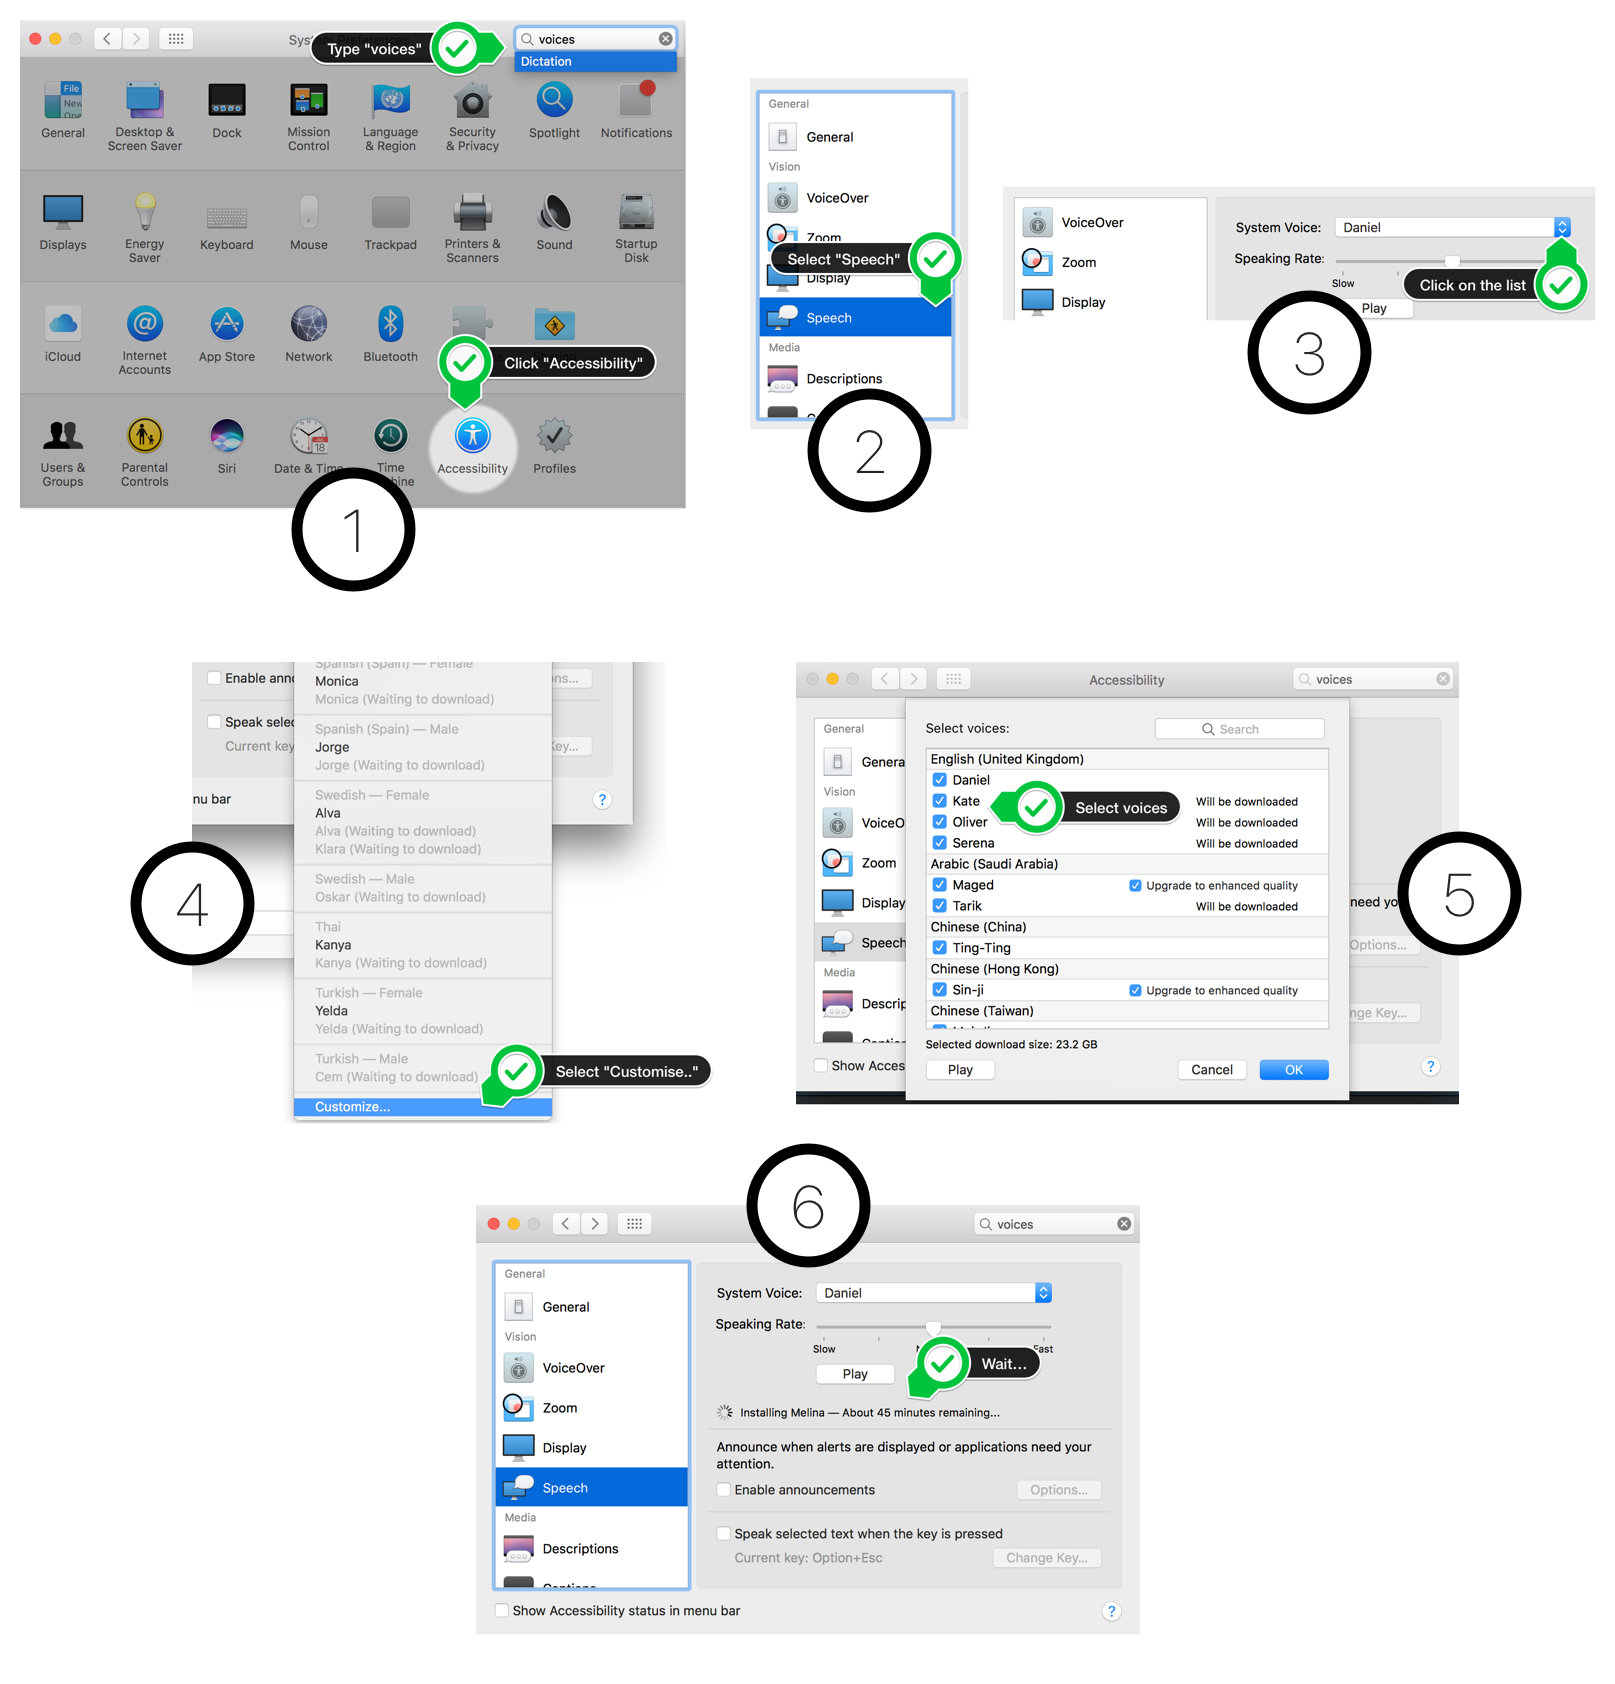
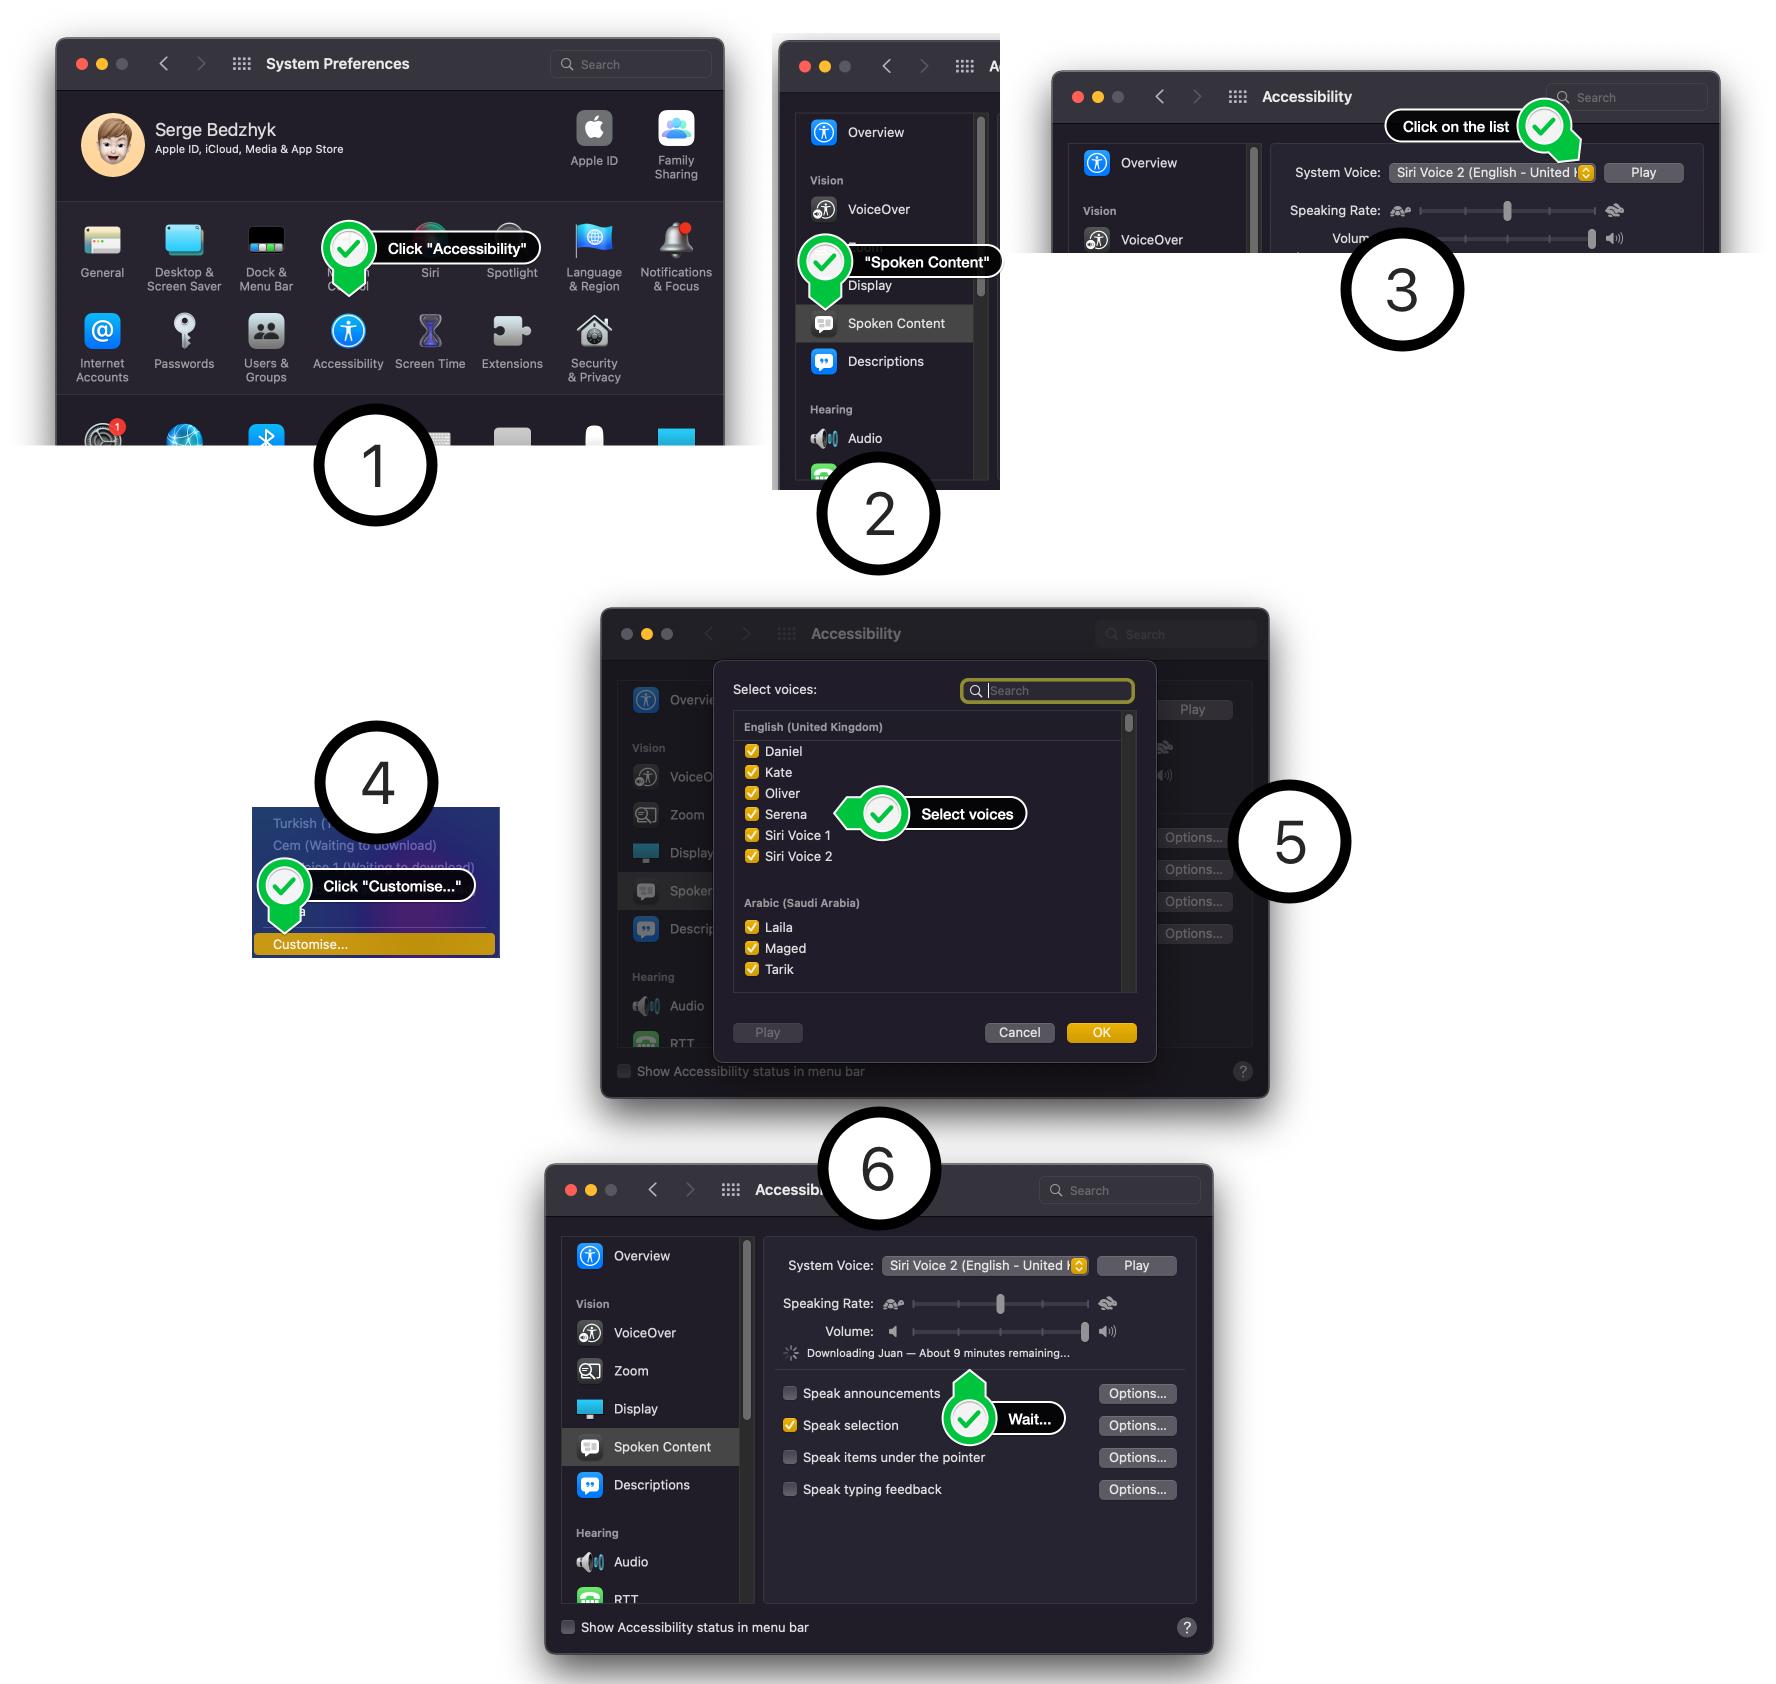
chore: bump the version 0.2.1 → 0.2.2 chore: add new voices neel and rishi chore: update all the dependencies refactor: all the tests to fix minitest deprecation warnings doc: update the copyright year 2017 → 2022 doc: update the manual image doc: add Caveats section doc: update "Installing & Updati

diff --git a/test/test_mac-say.rb b/test/test_mac-say.rb
@@ -10,19 +10,19 @@ describe 'Mac::Say as a macOS `say` wrapper' do
     end
 
     it 'must have a VERSION constant' do
-      Mac::Say.const_get('VERSION').wont_be_empty
+      _(Mac::Say.const_get('VERSION')).wont_be_empty
     end
 
     it 'must return available voices as an Array of Hashes' do
-      Mac::Say.voices.wont_be_empty
-      Mac::Say.voices.must_be_kind_of Array
+      _(Mac::Say.voices).wont_be_empty
+      _(Mac::Say.voices).must_be_kind_of Array
     end
 
     it 'must return specific Hash structure for a voice' do
       voice = Mac::Say.voice(:name, :alex)
-      voice.wont_be_empty
-      voice.must_be_kind_of Hash
-      voice.keys.must_equal Mac::Say::VOICE_ATTRIBUTES
+      _(voice).wont_be_empty
+      _(voice).must_be_kind_of Hash
+      _(voice.keys).must_equal Mac::Say::VOICE_ATTRIBUTES
     end
 
     it 'must return additional attributes for known voices' do
@@ -30,52 +30,52 @@ describe 'Mac::Say as a macOS `say` wrapper' do
       voice = Mac::Say.voice(:name, voice_name)
       additional_voice_attributes = ADDITIONAL_VOICE_ATTRIBUTES[voice_name]
 
-      voice[:gender].must_equal additional_voice_attributes[:gender]
-      voice[:joke].must_equal additional_voice_attributes[:joke]
-      voice[:quality].must_equal additional_voice_attributes[:quality]
+      _(voice[:gender]).must_equal additional_voice_attributes[:gender]
+      _(voice[:joke]).must_equal additional_voice_attributes[:joke]
+      _(voice[:quality]).must_equal additional_voice_attributes[:quality]
     end
 
     it '.voice must search for a voice using single attribute' do
       voice = Mac::Say.voice(:name, :alex)
-      voice[:name].must_equal :alex
+      _(voice[:name]).must_equal :alex
     end
 
     it '.voice must search for a voice using block given' do
       voices = Mac::Say.voice {|voice| voice[:language] == :en && voice[:joke] == false }
-      voices.must_be_kind_of Array
+      _(voices).must_be_kind_of Array
     end
 
     it '.voice must return one voice as a Hash' do
       voice = Mac::Say.voice(:name, :alex)
-      voice.must_be_kind_of Hash
+      _(voice).must_be_kind_of Hash
     end
 
     # For this test to pass you'd have to have more than
     # one British voice on your machine!
     it '.voice must return an Array of voices if > 1' do
       voices = Mac::Say.voice(:country, :gb)
-      voices.must_be_kind_of Array
+      _(voices).must_be_kind_of Array
     end
 
     it ".voice must return nil if voice wasn't found" do
       voices = Mac::Say.voice(:name, :xxx)
-      voices.must_be_nil
+      _(voices).must_be_nil
     end
 
 
     it '.say must return 0 in successive speech' do
       expectation = ["#{@say_path} -v 'alex' -r 175", 0]
-      Mac::Say.say('42').must_equal expectation
+      _(Mac::Say.say('42')).must_equal expectation
     end
 
     it '.say must use custom voice' do
       expectation = ["#{@say_path} -v 'alex' -r 175", 0]
-      Mac::Say.say('42', :alex).must_equal expectation
+      _(Mac::Say.say('42', :alex)).must_equal expectation
     end
 
     it '.say must work with multiple lines' do
       expectation = ["#{@say_path} -v 'alex' -r 175", 0]
-      Mac::Say.say(<<-TEXT, :alex).must_equal expectation
+      _(Mac::Say.say(<<-TEXT, :alex)).must_equal expectation
         1
         2
         3
@@ -83,13 +83,13 @@ describe 'Mac::Say as a macOS `say` wrapper' do
     end
 
     it '.say must fail on wrong voice' do
-      -> {
+      _{
         Mac::Say.say 'OMG! I lost my voice!', :wrong
       }.must_raise Mac::Say::VoiceNotFound
     end
 
     it '.voice must fail on wrong voice attribute' do
-      -> {
+      _{
         Mac::Say.voice(:tone, :enthusiastic)
       }.must_raise Mac::Say::UnknownVoiceAttribute
     end
@@ -102,24 +102,24 @@ describe 'Mac::Say as a macOS `say` wrapper' do
     end
 
     it 'must instantiate Mac::Say' do
-      @reader.must_be_instance_of Mac::Say
+      _(@reader).must_be_instance_of Mac::Say
     end
 
     it '#say must return 0 on successive speech' do
       expectation = ["#{@say_path} -v 'alex' -r 175", 0]
-      @reader.say(string: '42').must_equal expectation
+      _(@reader.say(string: '42')).must_equal expectation
     end
 
     it '#read must be a synonym of #say' do
       expectation = ["#{@say_path} -v 'alex' -r 175", 0]
-      @reader.read(string: '42').must_equal expectation
+      _(@reader.read(string: '42')).must_equal expectation
     end
 
     it '#say must support :file' do
       absolute_path = File.absolute_path './fixtures/text/en_gb_test.txt', File.dirname(__FILE__)
       expectation = ["#{@say_path} -f #{absolute_path} -v 'alex' -r 175", 0]
 
-      @reader.say(file: absolute_path).must_equal expectation
+      _(@reader.say(file: absolute_path)).must_equal expectation
     end
 
     it '#say must read :file from initial config' do
@@ -127,17 +127,16 @@ describe 'Mac::Say as a macOS `say` wrapper' do
       expectation = ["#{@say_path} -f #{absolute_path} -v 'alex' -r 175", 0]
 
       @reader = Mac::Say.new(file: absolute_path)
-      @reader.say.must_equal expectation
+      _(@reader.say).must_equal expectation
     end
 
     it 'must return nil additional attrs for unknown voices' do
       if ENV['USE_FAKE_SAY']
         voice = @reader.voice(:name, :test)
-        additional_voice_attributes = ADDITIONAL_VOICE_ATTRIBUTES[:test]
 
-        voice[:gender].must_be_nil
-        voice[:joke].must_be_nil
-        voice[:quality].must_be_nil
+        _(voice[:gender]).must_be_nil
+        _(voice[:joke]).must_be_nil
+        _(voice[:quality]).must_be_nil
       end
     end
 
@@ -149,90 +148,90 @@ describe 'Mac::Say as a macOS `say` wrapper' do
 
       # init
       @reader = Mac::Say.new(file: gb_absolute_path)
-      @reader.config[:file].must_equal gb_absolute_path
+      _(@reader.config[:file]).must_equal gb_absolute_path
 
       # change
-      @reader.say(file: us_absolute_path).must_equal expectation
-      @reader.config[:file].must_equal us_absolute_path
+      _(@reader.say(file: us_absolute_path)).must_equal expectation
+      _(@reader.config[:file]).must_equal us_absolute_path
     end
 
     it '#say must prioritise :file over :string' do
       absolute_path = File.absolute_path './fixtures/text/en_gb_test.txt', File.dirname(__FILE__)
       expectation = ["#{@say_path} -f #{absolute_path} -v 'alex' -r 175", 0]
 
-      @reader.say(string: 'test', file: absolute_path).must_equal expectation
+      _(@reader.say(string: 'test', file: absolute_path)).must_equal expectation
     end
 
     it '#say must support custom :rate' do
       expectation = ["#{@say_path} -v 'alex' -r 250", 0]
-      @reader.say(string: '42', rate: 250).must_equal expectation
+      _(@reader.say(string: '42', rate: 250)).must_equal expectation
     end
 
     it '#say must support custom :voice' do
       expectation = ["#{@say_path} -v 'fiona' -r 175", 0]
-      @reader.say(string: '42', voice: :fiona).must_equal expectation
+      _(@reader.say(string: '42', voice: :fiona)).must_equal expectation
     end
 
     it '#say must change the :voice' do
       expectation = ["#{@say_path} -v 'fiona' -r 175", 0]
-      @reader.config[:voice].must_equal :alex
+      _(@reader.config[:voice]).must_equal :alex
 
-      @reader.say(string: '42', voice: :fiona).must_equal expectation
-      @reader.config[:voice].must_equal :fiona
+      _(@reader.say(string: '42', voice: :fiona)).must_equal expectation
+      _(@reader.config[:voice]).must_equal :fiona
 
-      @reader.say(string: '13').must_equal expectation
+      _(@reader.say(string: '13')).must_equal expectation
     end
 
     it '#say must change the :rate' do
       expectation = ["#{@say_path} -v 'alex' -r 300", 0]
-      @reader.config[:rate].must_equal 175
+      _(@reader.config[:rate]).must_equal 175
 
-      @reader.say(string: '42', rate: 300).must_equal expectation
-      @reader.config[:rate].must_equal 300
+      _(@reader.say(string: '42', rate: 300)).must_equal expectation
+      _(@reader.config[:rate]).must_equal 300
 
-      @reader.say(string: '13').must_equal expectation
+      _(@reader.say(string: '13')).must_equal expectation
     end
 
     it '#say must fail on wrong initial voice' do
-      -> {
+      _{
         talker = Mac::Say.new(voice: :wrong)
         talker.say string: 'OMG! I lost my voice!'
       }.must_raise Mac::Say::VoiceNotFound
     end
 
     it '#say must fail on wrong dynamic voice' do
-      -> {
+      _{
         talker = Mac::Say.new
         talker.say string: 'OMG! I lost my voice!', voice: :wrong
       }.must_raise Mac::Say::VoiceNotFound
     end
 
     it '#voice must fail on wrong say path' do
-      -> {
+      _{
         Mac::Say.new(say_path: '/wrong/wrong/path').voice(:name, :alex)
       }.must_raise Mac::Say::CommandNotFound
     end
 
     it '#say must fail on wrong say path' do
-      -> {
+      _{
         Mac::Say.new(say_path: '/wrong/wrong/path').say 'test'
       }.must_raise Mac::Say::CommandNotFound
     end
 
     it '#say must fail on wrong file path' do
-      -> {
+      _{
         Mac::Say.new.say(file: '/wrong/wrong/path')
       }.must_raise Mac::Say::FileNotFound
     end
 
     it '#voice must fail on wrong attribute' do
-      -> {
+      _{
         Mac::Say.new.voice(:articulation, :nostalgic)
       }.must_raise Mac::Say::UnknownVoiceAttribute
     end
 
     it '#say must fail on initial wrong file path' do
-      -> {
+      _{
         Mac::Say.new(file: '/wrong/wrong/path').say
       }.must_raise Mac::Say::FileNotFound
     end

diff --git a/lib/mac/say/voices_attributes.rb b/lib/mac/say/voices_attributes.rb
@@ -3,9 +3,10 @@
 #
 # @note Unfortunately information in system *.plist files
 #   e.g. /System/Library/Speech/Voices/<VoiceName>.SpeechVoice/Contents/Info.plist"
-#   is inconsistent, fragmentary and sometimes incorrect, but:
+#   is inconsistent, fragmentary and sometimes incorrect, but also keep in mind:
 #
 #   WARNING: all the attributes values provided here are highly subjective!!!
+#
 ADDITIONAL_VOICE_ATTRIBUTES = {
     _unknown_voice: {
       gender: nil,
@@ -409,6 +410,12 @@ ADDITIONAL_VOICE_ATTRIBUTES = {
       quality: :medium,
       singing: false
     },
+    neel: {
+      gender: :male,
+      joke: false,
+      quality: :medium,
+      singing: false
+    },
     nicolas: {
       gender: :male,
       joke: false,
@@ -478,6 +485,12 @@ ADDITIONAL_VOICE_ATTRIBUTES = {
     ralph: {
       gender: :male,
       joke: true,
+      quality: :low,
+      singing: false
+    },
+    rishi: {
+      gender: :male,
+      joke: false,
       quality: :low,
       singing: false
     },

diff --git a/lib/mac/say/version.rb b/lib/mac/say/version.rb
@@ -6,6 +6,6 @@ module Mac
   # Allows to use simple TTS on Mac right from Ruby scripts
   class Say
     # mac-say version
-    VERSION = '0.2.1'
+    VERSION = '0.2.2'
   end
 end

diff --git a/README.md b/README.md
@@ -203,16 +203,20 @@ rescue Mac::Say::UnknownVoiceAttribute => e
 end
 ```
 
-## Installing & Updating MacOS TTS Voices
+## Installing & Updating MacOS TTS Voices (MacOS 12.2+)
 
-Open `System Preferences` using Spotlight / Alfred / Dock and follow text or visual instructions:
+Open `System Preferences` using  Menu / Spotlight / Alfred / Dock and follow text or visual instructions:
 
 ```
-System Preferences → Accessibility → Speech → System Voice →
+System Preferences → Accessibility → Spoken Content → System Voice →
 → Customize… → (select voices) → OK → (Wait for download…)
 ```
 
 ![Installing & Updating MacOS TTS Voices](./img/voices_manual.png)
+
+## Caveats
+
+- All the `Siri...` voices you might see in the system voices list are not available in `say`, that's why you can not user them
 
 ## Dev Notes
 
@@ -237,10 +241,25 @@ $ bundle exec m
 
 # run one test by LN
 $ bundle exec m ./test/test_mac-say.rb:34
+
+# building gem
+$ gem build ./mac-say.gemspec && mv ./mac-say*.gem ./pkg
+
+# releasing gem
+$ gem push ./pkg/mac-say-<VERSION>.gem
+```
+
+__Additionally to update dependencies I use my [one-liner](https://gist.github.com/smileart/9d1d17e9da8cba19f792304fd4b0e58d).__
+
+```
+# A snippet to look for any new/unknown voices and test their attributes
+pp Mac::Say.voices.select {|v| v[:gender].nil? }
+talker = Mac::Say.new(voice: :rishi)
+talker.say string: 'Hello, my name is Rishi. I am an Indian-English voice.'
 ```
 
 ## Copyright
 
-Copyright (c) 2017 Serge Bedzhyk
+Copyright (c) 2022 Serge Bedzhyk
 
 See [LICENSE.txt](./LICENSE.txt) for details.
